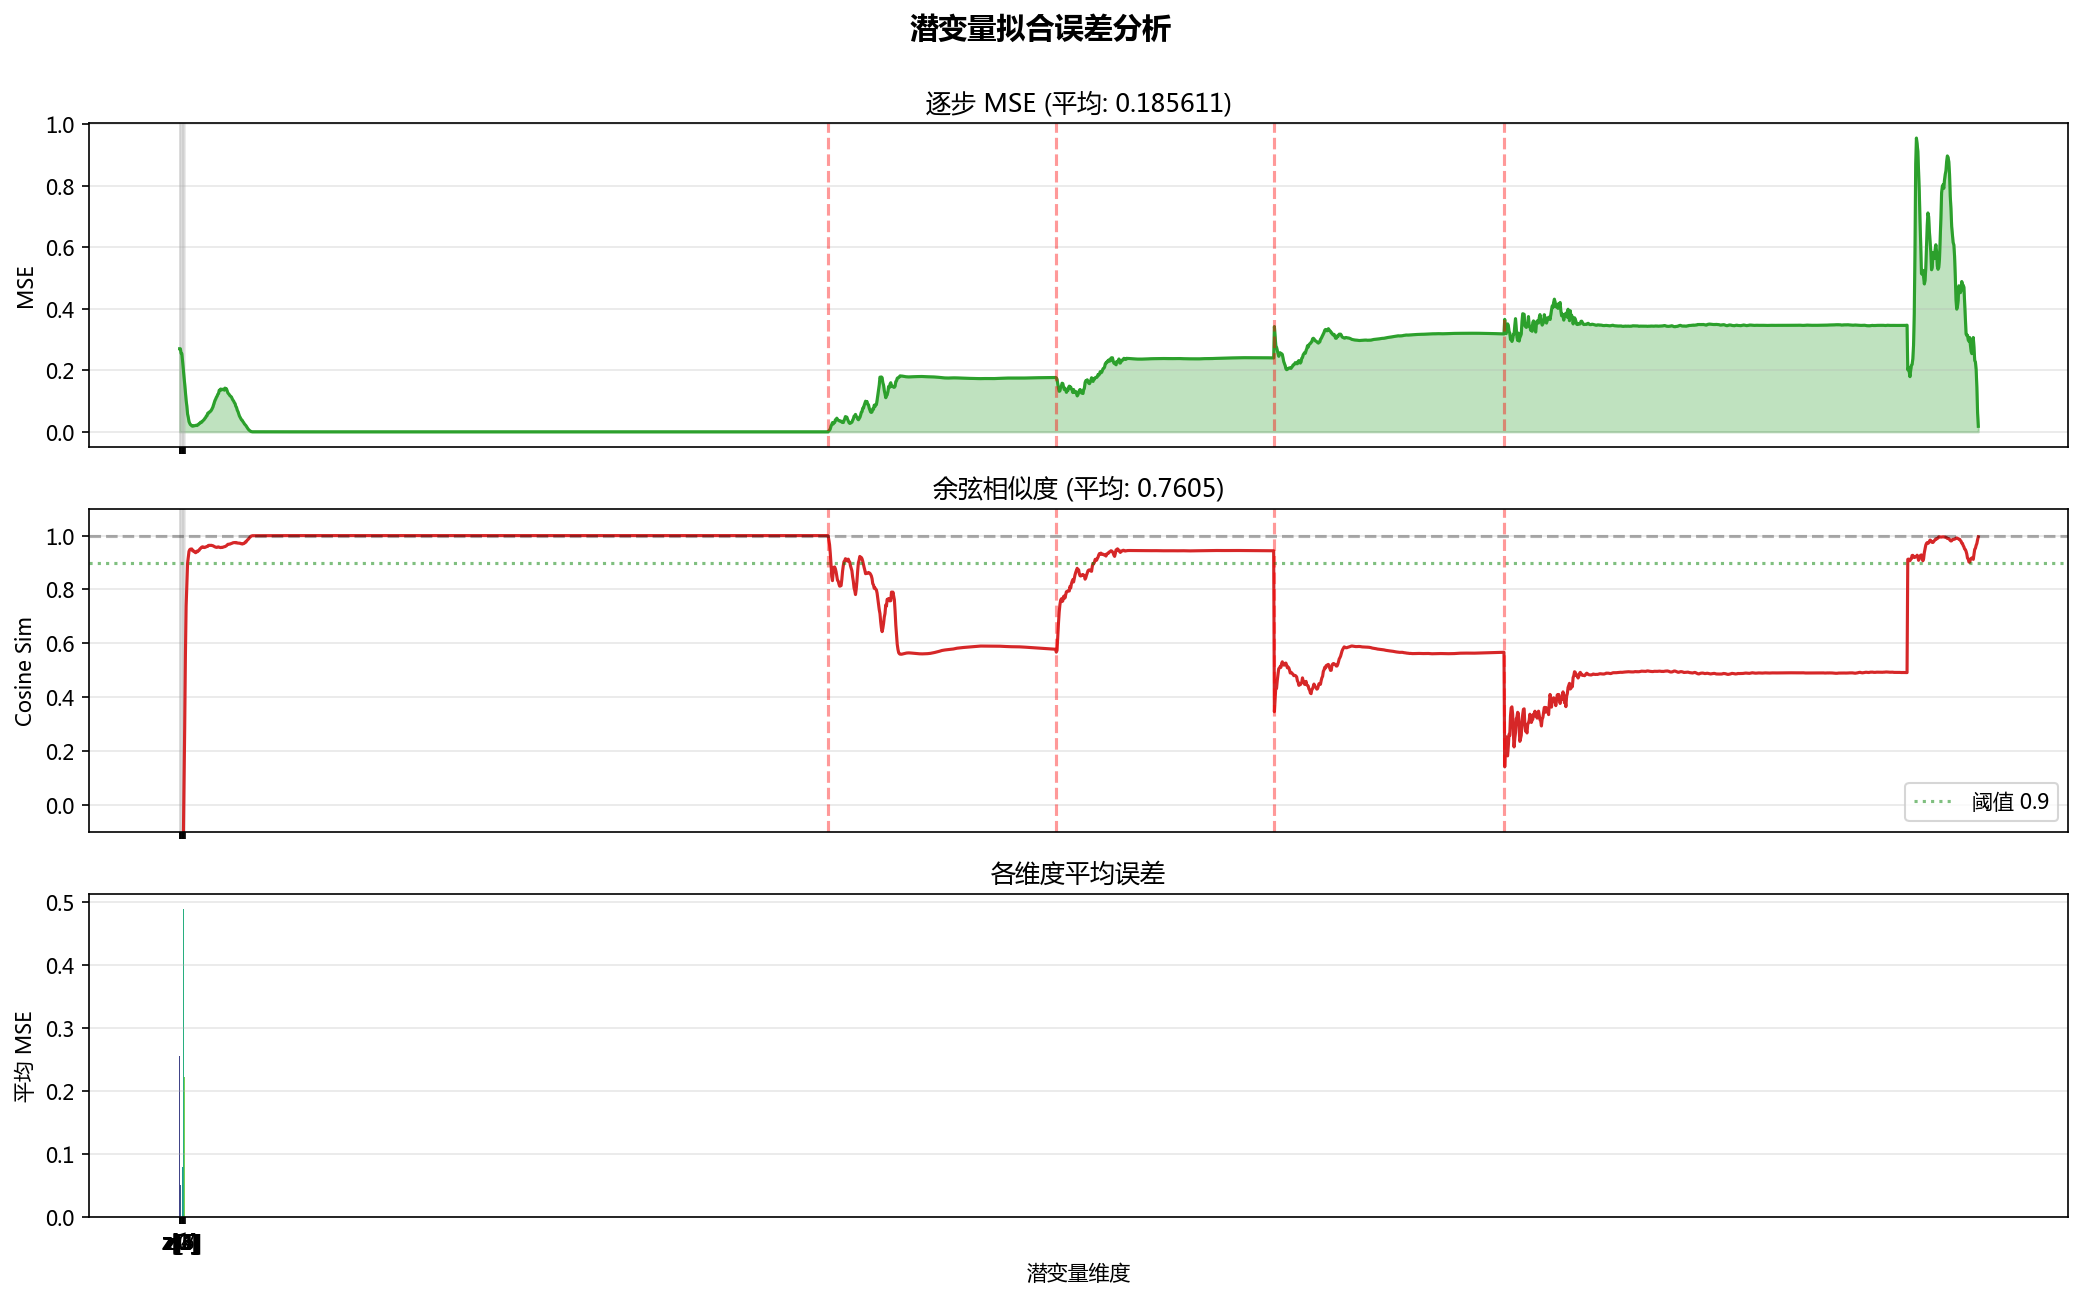
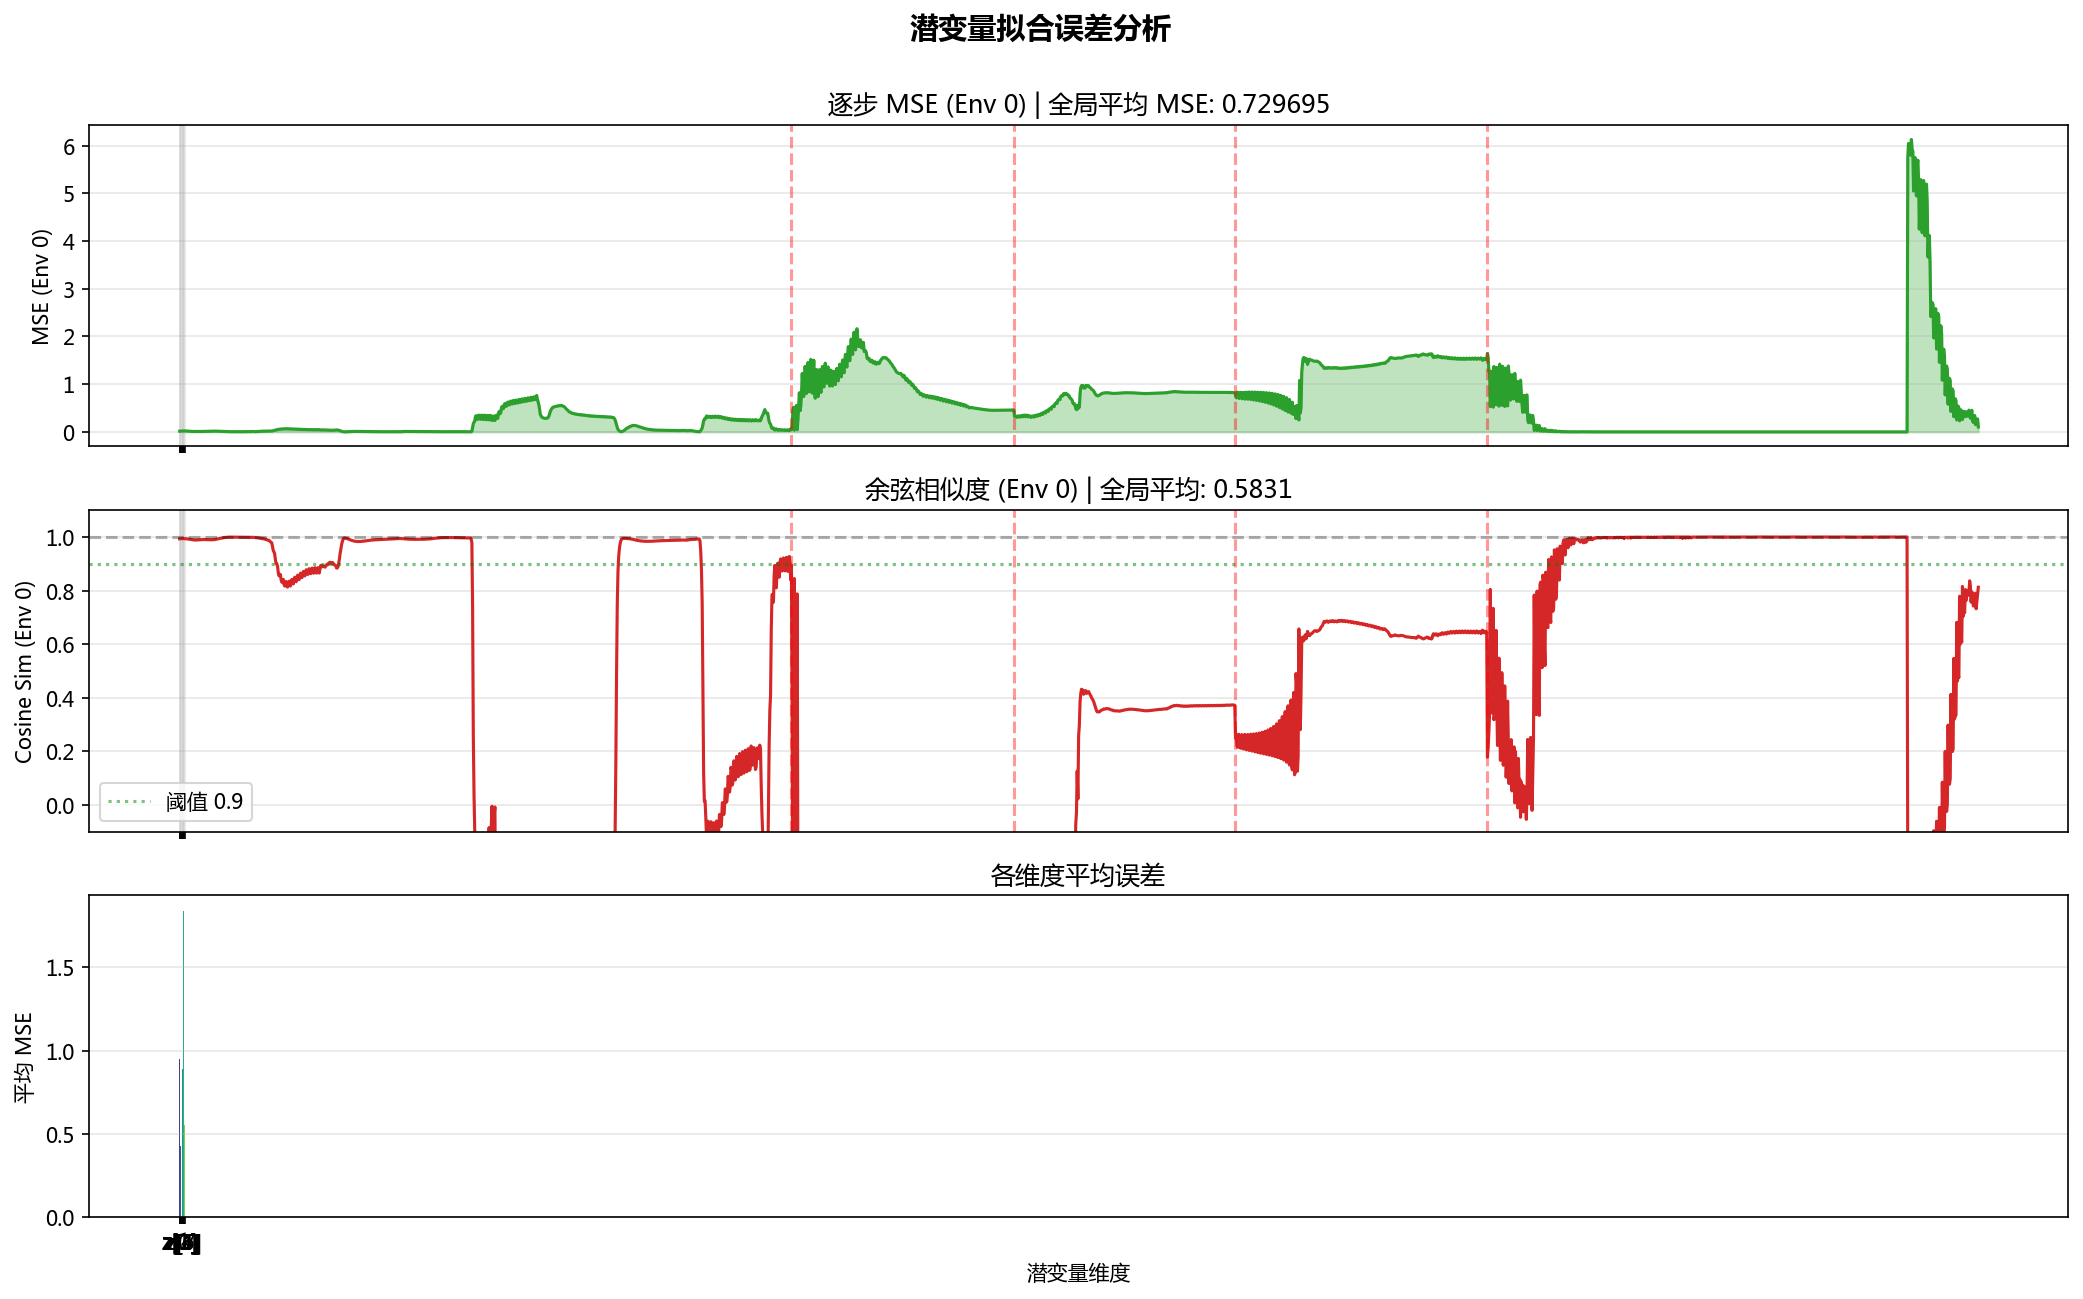
CNN优化好了，效果有点但是和理想的有差距

diff --git a/aerial_gym/examples/validate_cnn_stage2.py b/aerial_gym/examples/validate_cnn_stage2.py
@@ -59,7 +59,7 @@ def parse_args() -> argparse.Namespace:
     parser = argparse.ArgumentParser(
         description="Stage 2 CNN Student Validation with Enhanced Visualization."
     )
-    parser.add_argument("--num_envs", type=int, default=1, help="Number of parallel envs.")
+    parser.add_argument("--num_envs", type=int, default=4, help="Number of parallel envs for statistical validation.")
     parser.add_argument("--steps", type=int, default=1500, help="Number of simulation steps.")
     parser.add_argument(
         "--headless",
@@ -128,6 +128,24 @@ def parse_args() -> argparse.Namespace:
         type=str,
         default=None,
         help="Save path for plots.",
+    )
+    parser.add_argument(
+        "--preflight_steps",
+        type=int,
+        default=0,
+        help="Number of random waypoint preflight steps before release phase (0 to disable).",
+    )
+    parser.add_argument(
+        "--preflight_waypoint_range",
+        type=float,
+        default=0.5,
+        help="Range for random waypoint targets during preflight (meters).",
+    )
+    parser.add_argument(
+        "--preflight_waypoint_interval",
+        type=int,
+        default=100,
+        help="Steps between waypoint changes during preflight.",
     )
     return parser.parse_args()
 
@@ -244,7 +262,7 @@ def load_teacher_encoder(checkpoint_path: str, device: str, priv_dim: int = 7):
 
 
 def load_cnn_encoder(checkpoint_path: str, obs_dim: int, history_len: int, latent_dim: int, device: str):
-    """Load trained CNN student encoder."""
+    """Load trained CNN student encoder (auto-detects standard vs attention version)."""
     base_path = os.path.dirname(os.path.dirname(os.path.abspath(__file__)))
     cnn_encoder_path = os.path.join(base_path, "rl_training/rl_games/nn/cnn_student_encoder.py")
     
@@ -254,14 +272,23 @@ def load_cnn_encoder(checkpoint_path: str, obs_dim: int, history_len: int, laten
     spec.loader.exec_module(cnn_module)
     
     CNNStudentEncoder = cnn_module.CNNStudentEncoder
+    CNNWithTemporalAttention = cnn_module.CNNWithTemporalAttention
     ObsHistoryBuffer = cnn_module.ObsHistoryBuffer
     
-    encoder = CNNStudentEncoder(obs_dim=obs_dim, history_len=history_len, latent_dim=latent_dim).to(device)
     checkpoint = torch.load(checkpoint_path, map_location=device)
-    if "model_state_dict" in checkpoint:
-        encoder.load_state_dict(checkpoint["model_state_dict"])
+    state_dict = checkpoint.get("model_state_dict", checkpoint)
+    
+    # Auto-detect encoder type from checkpoint keys
+    has_attention = any("temporal_attention" in k for k in state_dict.keys())
+    
+    if has_attention:
+        print("Detected CNN with Temporal Attention")
+        encoder = CNNWithTemporalAttention(obs_dim=obs_dim, history_len=history_len, latent_dim=latent_dim).to(device)
     else:
-        encoder.load_state_dict(checkpoint)
+        print("Detected standard CNN encoder")
+        encoder = CNNStudentEncoder(obs_dim=obs_dim, history_len=history_len, latent_dim=latent_dim).to(device)
+    
+    encoder.load_state_dict(state_dict)
     encoder.eval()
     
     buffer = ObsHistoryBuffer(num_envs=1, obs_dim=obs_dim, history_len=history_len, device=device)
@@ -306,8 +333,25 @@ def plot_comprehensive_results(
     cnn_latents: np.ndarray,
     pos_history: List[np.ndarray],
     save_path: Optional[str] = None,
+    num_envs: int = 1,
 ):
     """Generate comprehensive comparison plots for CNN vs Teacher latents."""
+    # Reshape latents if num_envs > 1: (steps*num_envs, latent_dim) -> (steps, num_envs, latent_dim)
+    if num_envs > 1:
+        steps_count = teacher_latents.shape[0] // num_envs
+        teacher_all = teacher_latents.reshape(steps_count, num_envs, -1)
+        cnn_all = cnn_latents.reshape(steps_count, num_envs, -1)
+        
+        # Use Env 0 for time series plotting
+        teacher_plot = teacher_all[:, 0, :]
+        cnn_plot = cnn_all[:, 0, :]
+        
+        # Compute stats across ALL environments (flattened)
+        # teacher_latents/cnn_latents are already flattened, so we can use them directly for global stats
+    else:
+        teacher_plot = teacher_latents
+        cnn_plot = cnn_latents
+        
     steps = np.arange(len(z_history))
     
     # === Figure 1: Flight State ===
@@ -323,12 +367,15 @@ def plot_comprehensive_results(
     axes1[0].grid(True, alpha=0.3)
     axes1[0].set_title("飞行高度变化")
     
-    # Euler angles
-    eulers = np.rad2deg(np.unwrap(np.array(euler_history), axis=0))
+    # Euler angles - normalize to ±180° for better visualization
+    eulers = np.rad2deg(np.array(euler_history))
+    # Wrap to [-180, 180]
+    eulers = ((eulers + 180) % 360) - 180
     axes1[1].plot(steps, eulers[:, 0], label="Roll", alpha=0.8)
     axes1[1].plot(steps, eulers[:, 1], label="Pitch", alpha=0.8)
     axes1[1].plot(steps, eulers[:, 2], label="Yaw", alpha=0.8)
     axes1[1].axhline(0, color='k', linestyle='-', linewidth=1.0, alpha=0.6, label="基准线 0°")
+    axes1[1].set_ylim(-30, 30)  # Reasonable range for small angle variations
     for rs, _ in release_history:
         axes1[1].axvline(rs, color='r', linestyle='--', alpha=0.4)
     axes1[1].set_ylabel("角度 (°)")
@@ -352,14 +399,14 @@ def plot_comprehensive_results(
     fig1.tight_layout()
     
     # === Figure 2: Latent Comparison (8 dims) ===
-    latent_dim = teacher_latents.shape[1]
+    latent_dim = teacher_plot.shape[1]
     fig2, axes2 = plt.subplots(4, 2, figsize=(16, 12), sharex=True)
     axes2 = axes2.ravel()
     
     for i in range(latent_dim):
         ax = axes2[i]
-        ax.plot(steps, teacher_latents[:, i], 'b-', linewidth=1.2, label="Teacher", alpha=0.9)
-        ax.plot(steps, cnn_latents[:, i], 'r--', linewidth=1.2, label="CNN", alpha=0.9)
+        ax.plot(steps, teacher_plot[:, i], 'b-', linewidth=1.2, label="Teacher", alpha=0.9)
+        ax.plot(steps, cnn_plot[:, i], 'r--', linewidth=1.2, label="CNN", alpha=0.9)
         for rs, _ in release_history:
             ax.axvline(rs, color='g', linestyle=':', alpha=0.5)
         ax.set_ylabel(f"z[{i}]")
@@ -376,27 +423,40 @@ def plot_comprehensive_results(
     fig3, axes3 = plt.subplots(3, 1, figsize=(14, 9), sharex=True)
     
     # Per-step MSE
-    mse = np.mean((teacher_latents - cnn_latents) ** 2, axis=1)
-    axes3[0].plot(steps, mse, 'C2-', linewidth=1.5)
-    axes3[0].fill_between(steps, 0, mse, alpha=0.3, color='C2')
+    # Per-step MSE (using Env 0 for plot visualization)
+    # Note: Global usage MSE is printed, but for plot we show Env 0 time series
+    mse_plot = np.mean((teacher_plot - cnn_plot) ** 2, axis=1)
+    
+    # Global MSE for title (using all envs)
+    global_mse = np.mean((teacher_latents - cnn_latents) ** 2)
+    
+    axes3[0].plot(steps, mse_plot, 'C2-', linewidth=1.5)
+    axes3[0].fill_between(steps, 0, mse_plot, alpha=0.3, color='C2')
     for rs, _ in release_history:
         axes3[0].axvline(rs, color='r', linestyle='--', alpha=0.4)
-    axes3[0].set_ylabel("MSE")
-    axes3[0].set_title(f"逐步 MSE (平均: {np.mean(mse):.6f})")
+    axes3[0].set_ylabel("MSE (Env 0)")
+    axes3[0].set_title(f"逐步 MSE (Env 0) | 全局平均 MSE: {global_mse:.6f}")
     axes3[0].grid(True, alpha=0.3)
     
-    # Cosine similarity
-    t_norm = np.linalg.norm(teacher_latents, axis=1, keepdims=True)
-    c_norm = np.linalg.norm(cnn_latents, axis=1, keepdims=True)
-    cos_sim = np.sum(teacher_latents * cnn_latents, axis=1) / (t_norm.squeeze() * c_norm.squeeze() + 1e-8)
-    axes3[1].plot(steps, cos_sim, 'C3-', linewidth=1.5)
+    # Cosine similarity (Env 0 for plot)
+    t_norm_plot = np.linalg.norm(teacher_plot, axis=1, keepdims=True)
+    c_norm_plot = np.linalg.norm(cnn_plot, axis=1, keepdims=True)
+    cos_sim_plot = np.sum(teacher_plot * cnn_plot, axis=1) / (t_norm_plot.squeeze() * c_norm_plot.squeeze() + 1e-8)
+    
+    # Global Cosine Sim
+    t_norm_all = np.linalg.norm(teacher_latents, axis=1, keepdims=True)
+    c_norm_all = np.linalg.norm(cnn_latents, axis=1, keepdims=True)
+    cos_sim_all = np.sum(teacher_latents * cnn_latents, axis=1) / (t_norm_all.squeeze() * c_norm_all.squeeze() + 1e-8)
+    global_cos_sim = np.mean(cos_sim_all)
+    
+    axes3[1].plot(steps, cos_sim_plot, 'C3-', linewidth=1.5)
     axes3[1].axhline(1.0, color='k', linestyle='--', alpha=0.3)
     axes3[1].axhline(0.9, color='g', linestyle=':', alpha=0.5, label="阈值 0.9")
     for rs, _ in release_history:
         axes3[1].axvline(rs, color='r', linestyle='--', alpha=0.4)
-    axes3[1].set_ylabel("Cosine Sim")
+    axes3[1].set_ylabel("Cosine Sim (Env 0)")
     axes3[1].set_ylim(-0.1, 1.1)
-    axes3[1].set_title(f"余弦相似度 (平均: {np.mean(cos_sim):.4f})")
+    axes3[1].set_title(f"余弦相似度 (Env 0) | 全局平均: {global_cos_sim:.4f}")
     axes3[1].legend()
     axes3[1].grid(True, alpha=0.3)
     
@@ -443,13 +503,17 @@ def plot_comprehensive_results(
         fig4 = None
     
     # Print summary statistics
+    # Calculate per-dimension MSE on global data
+    dim_mse = np.mean((teacher_latents - cnn_latents) ** 2, axis=0)
+    
+    # Print summary statistics
     print("\n" + "=" * 60)
     print("潜变量拟合统计")
     print("=" * 60)
-    print(f"平均 MSE: {np.mean(mse):.6f}")
-    print(f"最大 MSE: {np.max(mse):.6f}")
-    print(f"平均 Cosine Similarity: {np.mean(cos_sim):.4f}")
-    print(f"最小 Cosine Similarity: {np.min(cos_sim):.4f}")
+    print(f"平均 MSE: {global_mse:.6f}")
+    print(f"最大 MSE (Global): {np.max(np.mean((teacher_latents - cnn_latents) ** 2, axis=1)):.6f}")
+    print(f"平均 Cosine Similarity: {global_cos_sim:.4f}")
+    print(f"最小 Cosine Similarity (Global): {np.min(np.sum(teacher_latents * cnn_latents, axis=1) / (np.linalg.norm(teacher_latents, axis=1) * np.linalg.norm(cnn_latents, axis=1) + 1e-8)):.4f}")
     print(f"各维度 MSE: {[f'{v:.4f}' for v in dim_mse]}")
     print("=" * 60)
     
@@ -489,6 +553,13 @@ def main() -> None:
     priv_dim = task.task_config.privileged_observation_space_dim
     latent_dim = 8
     device = torch.device(task.device)
+    
+    # Relax crash thresholds for validation with random waypoints
+    # This prevents crashes during trajectory tracking which has larger angles
+    if args.preflight_steps > 0:
+        task.crash_distance_threshold = 20.0  # meters (relaxed from 1.0)
+        task.crash_tilt_threshold_rad = np.deg2rad(60.0)  # 60° (relaxed from 20°)
+        print(f"Relaxed crash thresholds: distance={task.crash_distance_threshold}m, tilt=60°")
 
     # Load models
     checkpoint, checkpoint_action_dim = load_checkpoint(args.teacher_checkpoint)
@@ -536,6 +607,7 @@ def main() -> None:
             task.step(actions)
 
     print(f"Running validation for {args.steps} steps...")
+    preflight_step = 0
     with torch.no_grad():
         for step in range(args.steps):
             obs = torch.as_tensor(task.task_obs["observations"], device=device, dtype=torch.float32)
@@ -543,13 +615,25 @@ def main() -> None:
             if priv is not None:
                 priv = torch.as_tensor(priv, device=device, dtype=torch.float32)
             
+            # Random waypoint navigation during preflight
+            if args.preflight_steps > 0 and preflight_step < args.preflight_steps:
+                if preflight_step % args.preflight_waypoint_interval == 0:
+                    random_target = (torch.rand(1, 3, device=device) * 2 - 1) * args.preflight_waypoint_range
+                    random_target[:, 2] = random_target[:, 2].abs()
+                    task.target_position[:] = random_target
+                preflight_step += 1
+            elif args.preflight_steps > 0 and preflight_step == args.preflight_steps:
+                # Reset to origin after preflight
+                task.target_position[:] = 0.0
+                preflight_step += 1
+            
             # Get latents
             teacher_z = teacher_encoder(priv) if priv is not None else torch.zeros((args.num_envs, latent_dim), device=device)
             history_buffer.push(obs)
             cnn_z = cnn_encoder(history_buffer.get())
             
-            teacher_latents_list.append(teacher_z[0].cpu().numpy())
-            cnn_latents_list.append(cnn_z[0].cpu().numpy())
+            teacher_latents_list.append(teacher_z.cpu().numpy())  # (num_envs, latent_dim)
+            cnn_latents_list.append(cnn_z.cpu().numpy())  # (num_envs, latent_dim)
             
             # Policy forward
             input_dict = {"is_train": False, "prev_actions": None, "obs": obs,
@@ -557,12 +641,17 @@ def main() -> None:
             result = model(input_dict)
             action = torch.clamp(result["mus"] if args.deterministic else result["actions"], -1.0, 1.0)
             
+            # Zero compensation during preflight
+            if args.preflight_steps > 0 and step < args.preflight_steps:
+                action = torch.zeros_like(action)
+            
             task_obs, rewards, terms, truncs, infos = task.step(action)
             rnn_states = _to_device(result.get("rnn_states"), device)
             done_envs = torch.nonzero(terms | truncs, as_tuple=False).squeeze(-1)
             rnn_states = _reset_rnn_states(rnn_states, done_envs)
             if done_envs.numel() > 0:
                 history_buffer.reset(done_envs)
+                preflight_step = 0  # Reset preflight counter on env reset
             
             # Record for env 0
             env_id = 0
@@ -582,8 +671,9 @@ def main() -> None:
                 payload_idx = int(task.payload_manager.last_release_index[env_id].item())
                 release_history.append((step, payload_idx))
 
-    teacher_latents = np.vstack(teacher_latents_list)
-    cnn_latents = np.vstack(cnn_latents_list)
+    # Stack all envs: (steps, num_envs, latent_dim) -> (steps*num_envs, latent_dim)
+    teacher_latents = np.concatenate(teacher_latents_list, axis=0)
+    cnn_latents = np.concatenate(cnn_latents_list, axis=0)
 
     save_path = args.save_path or (f"validate_cnn_stage2_{args.steps}steps.png" if args.save_plot else None)
     
@@ -591,7 +681,8 @@ def main() -> None:
         z_history, euler_history, release_history,
         policy_actions, teacher_actions,
         teacher_latents, cnn_latents,
-        pos_history, save_path
+        pos_history, save_path,
+        num_envs=args.num_envs
     )
 
     if args.show_plot:

diff --git a/aerial_gym/rl_training/train_cnn_student.py b/aerial_gym/rl_training/train_cnn_student.py
@@ -241,8 +241,9 @@ def create_task(num_envs: int, device: str, preflight_crash_threshold: float = 1
     task_config.num_envs = num_envs
     task_config.headless = True
     task_config.device = device
-    # Relax crash threshold for preflight random navigation
+    # Relax crash thresholds for preflight random navigation
     task_config.crash_distance_threshold = preflight_crash_threshold
+    task_config.crash_tilt_threshold_deg = 60.0  # Relax from 20° for trajectory tracking
     
     task = PayloadCompensationTask(
         task_config=task_config,

diff --git a/CODEX_CHANGELOG.md b/CODEX_CHANGELOG.md
@@ -177,9 +177,10 @@ python aerial_gym/rl_training/train_cnn_student.py \
 
 python aerial_gym/examples/validate_cnn_stage2.py \
     --teacher_checkpoint runs/teacher_aux_fixed_imitation_14-19-16-50/nn/last_teacher_aux_fixed_imitation_ep_34_rew_13236.196.pth \
-    --cnn_checkpoint runs/cnn_stage2_hist100_14-20-28-37/nn/best_cnn_encoder.pth \
+    --cnn_checkpoint runs/cnn_stage2_waypoint_14-21-06-53/nn/best_cnn_encoder.pth \
     --history_len 100 \
-    --steps 1500 \
+    --steps 2500 \
+    --preflight_steps 1000 \
     --show_plot True
 
 ## 2025-02-21 Teacher 残差原型
